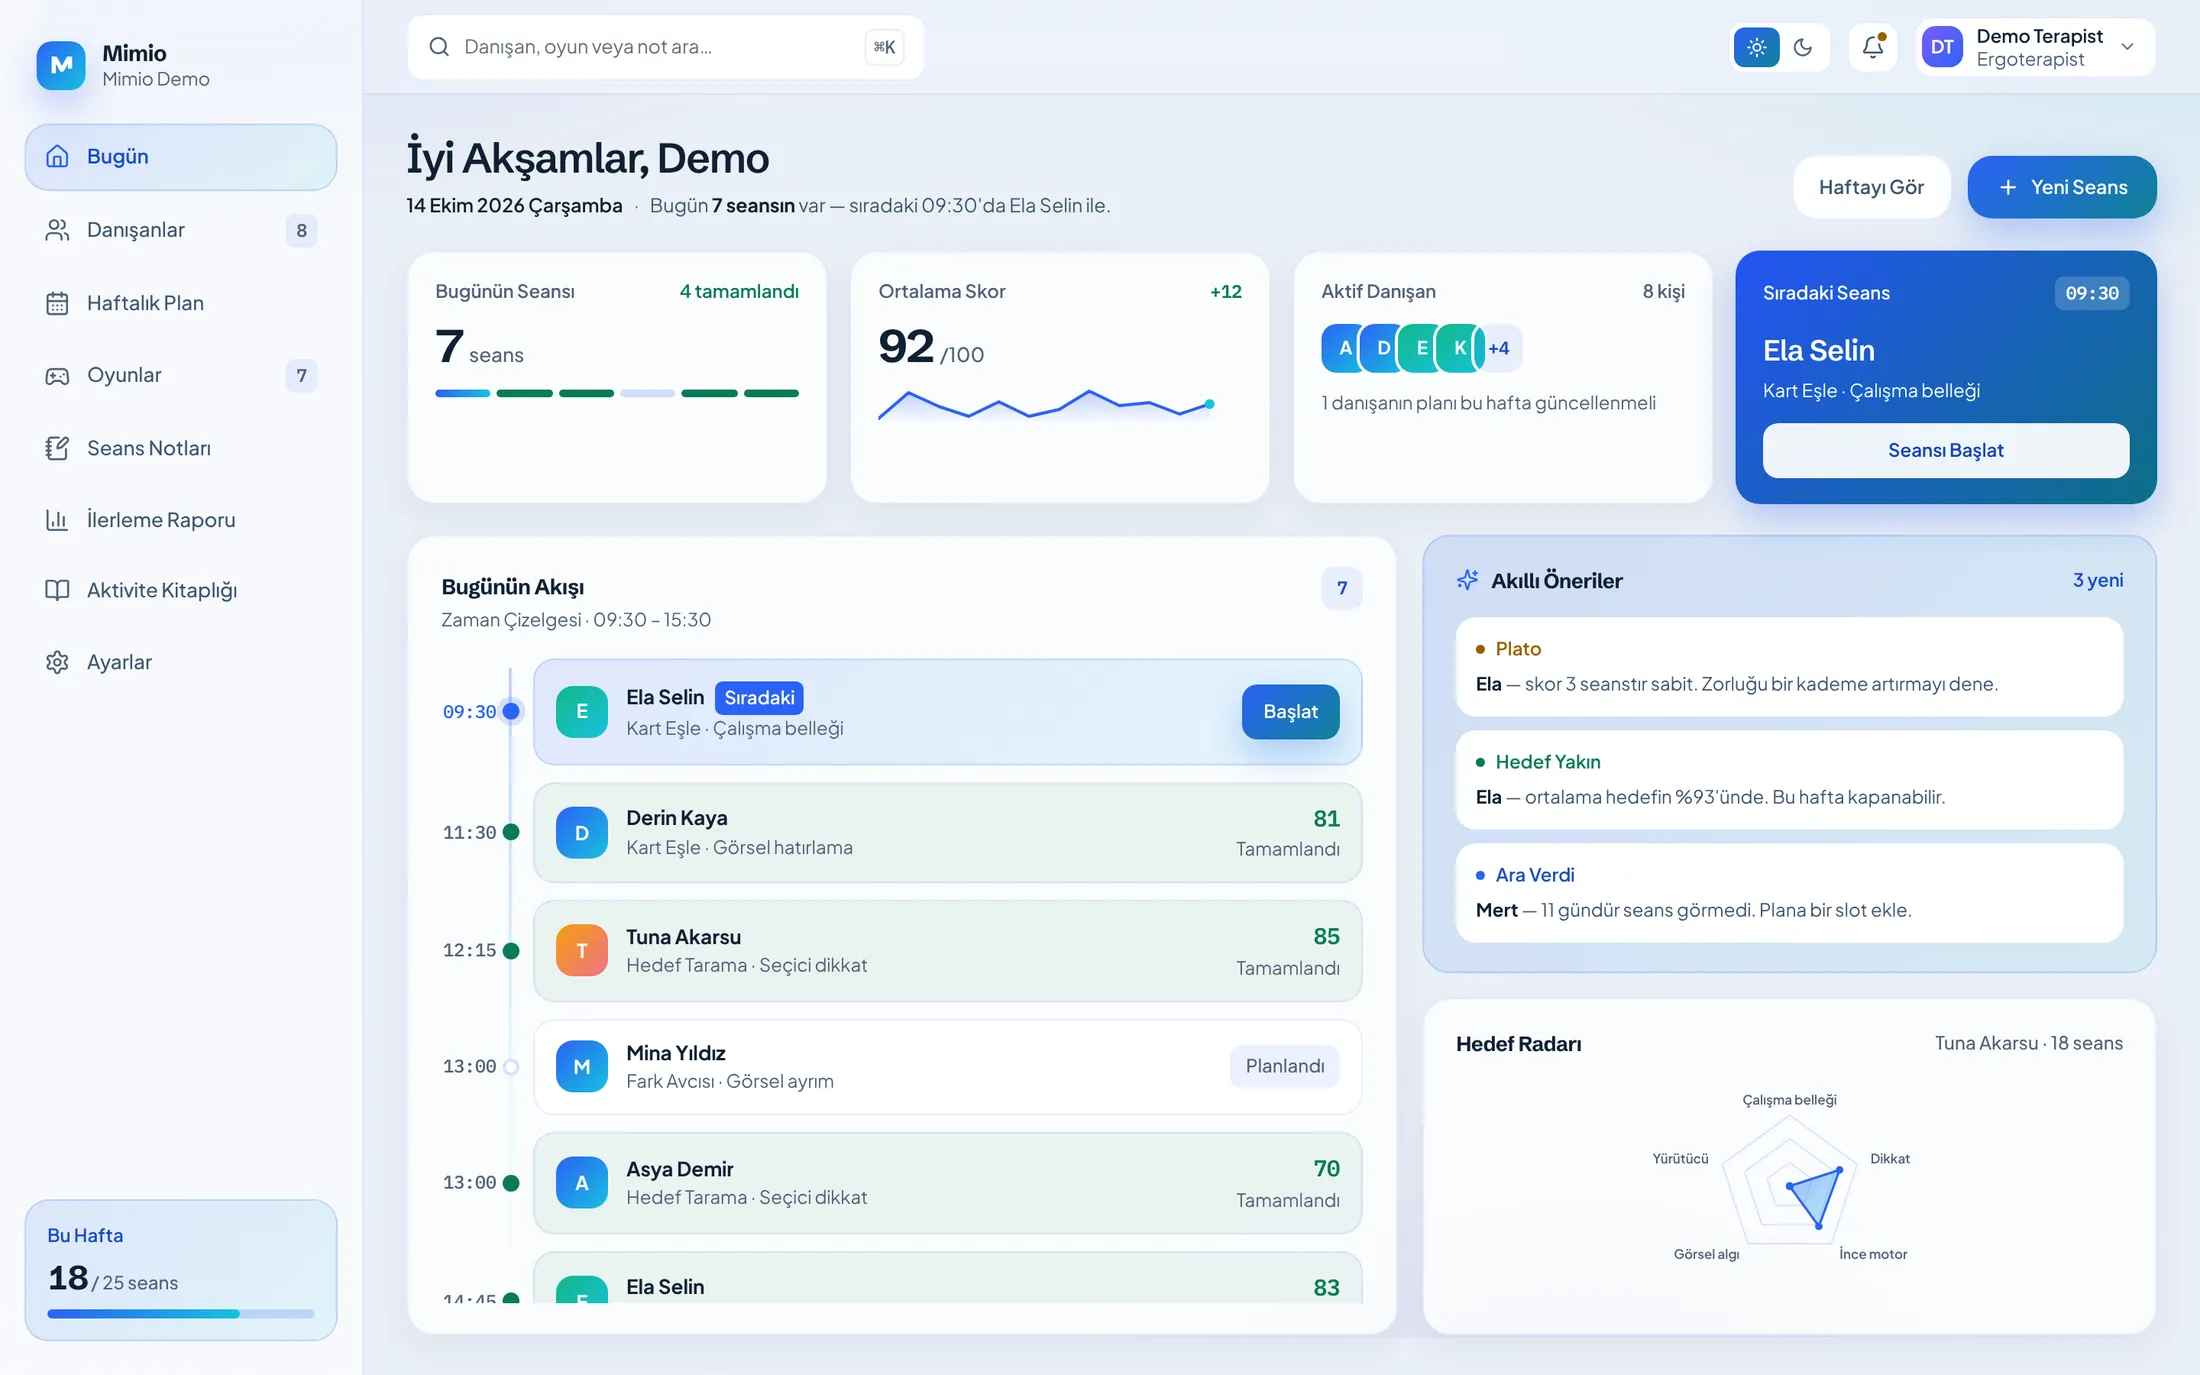
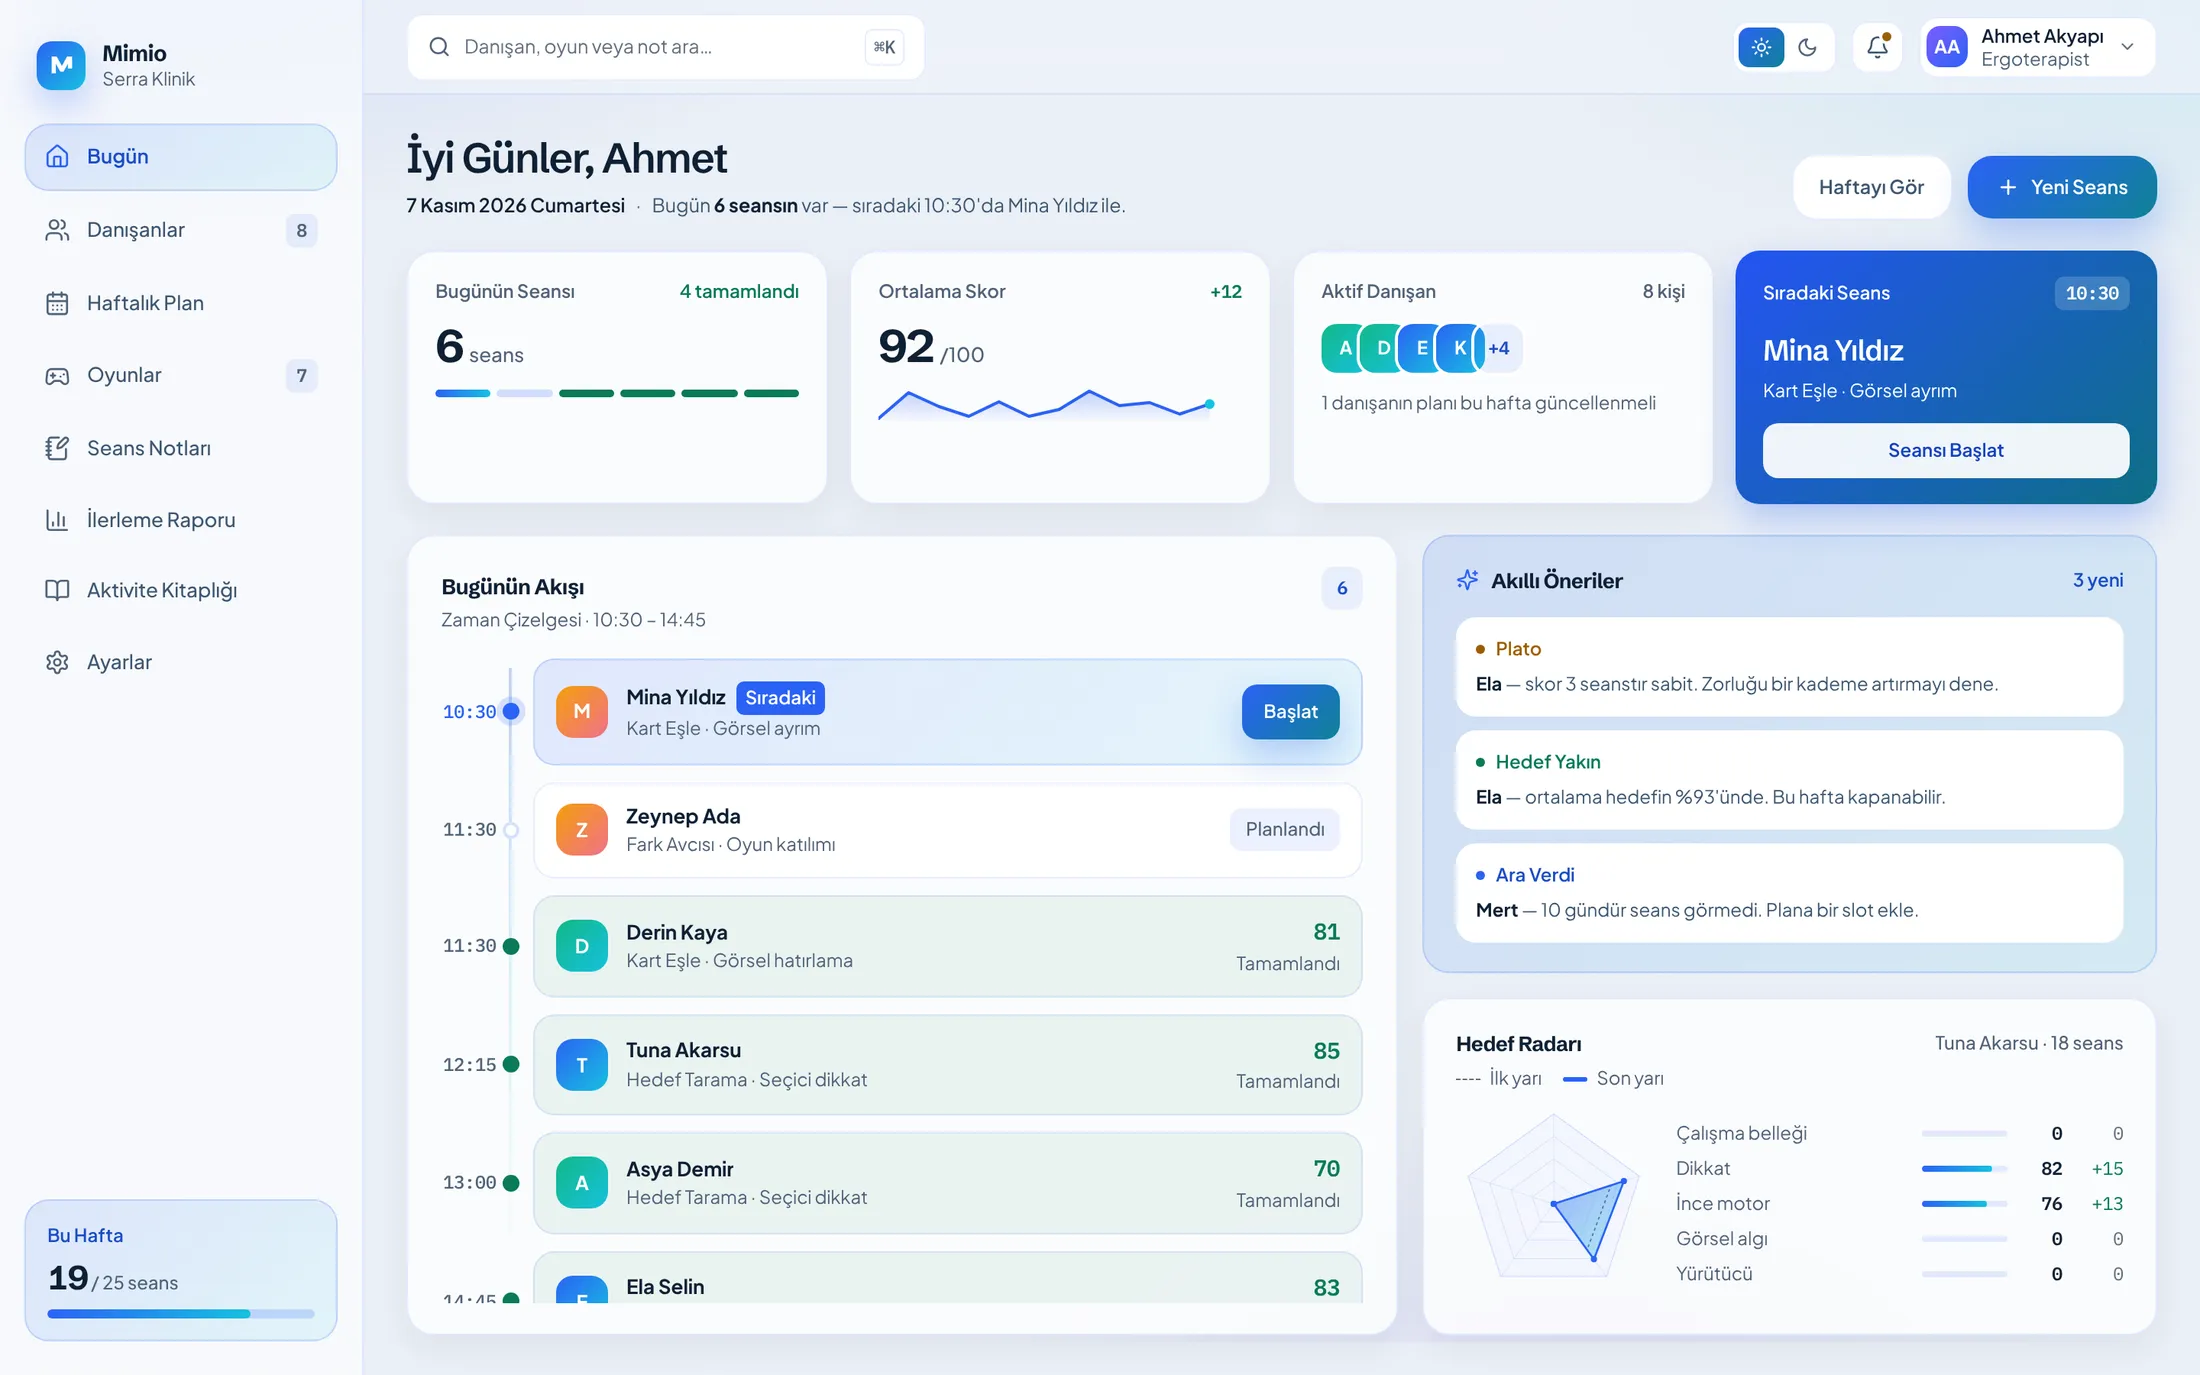
fix: yüksek kontrastta kahraman blokları okunur; tanıtım panel görüntüsü yeni uygulamadan
Claude-Session: https://claude.ai/code/session_01CjLDHnaZx8eqURqBECpGZc

diff --git a/src/app/globals.css b/src/app/globals.css
@@ -3783,3 +3783,9 @@ html[data-theme='dark'] .hero-stage {
 .client-preview-k { display: block; font-size: 12px; color: var(--color-text-soft); }
 .client-preview-v { font-size: 13px; font-weight: 700; color: var(--color-text-strong); overflow: hidden; text-overflow: ellipsis; white-space: nowrap; }
 .client-preview-thumb { position: relative; display: block; aspect-ratio: 4 / 3; border-radius: 10px; overflow: hidden; background: var(--ink-deep); box-shadow: inset 0 0 0 1px rgba(255, 255, 255, 0.06); }
+html[data-theme='high-contrast'] .hb[data-trail] .hb-top,
+html[data-theme='high-contrast'] .hb[data-ok] .hb-top,
+html[data-theme='high-contrast'] .hb[data-tap] .hb-top { background: #000; border: 2px solid var(--color-primary); }
+html[data-theme='high-contrast'] .hb[data-lit] .hb-top { background: var(--color-primary); }
+html[data-theme='high-contrast'] .hb[data-lit] .hb-order, html[data-theme='high-contrast'] .hb[data-lit] .hb-num { color: #000; }
+html[data-theme='high-contrast'] .hb-order { color: var(--color-primary); }
